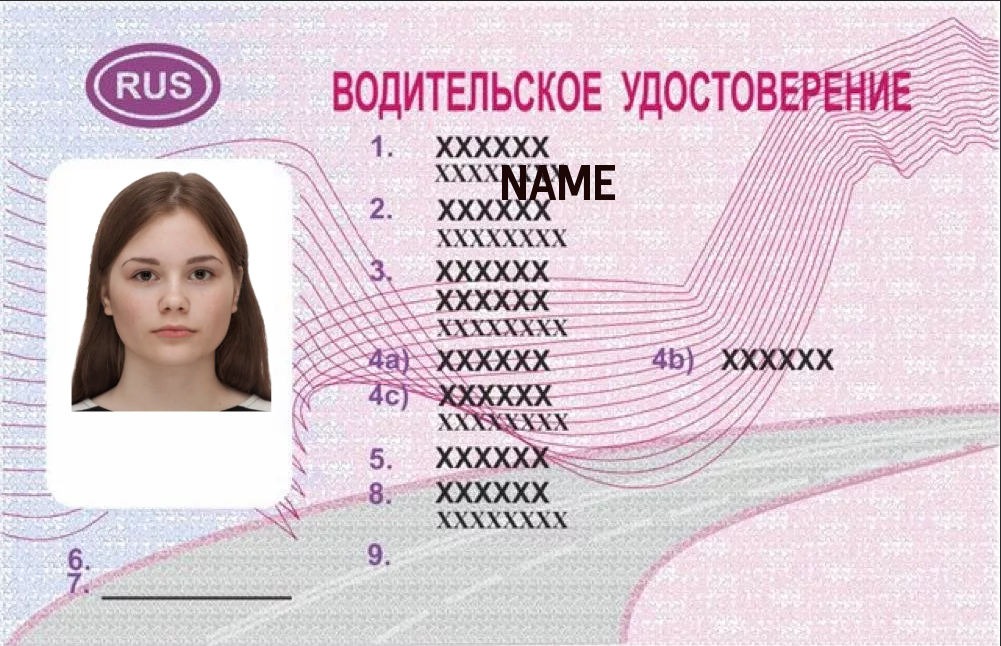
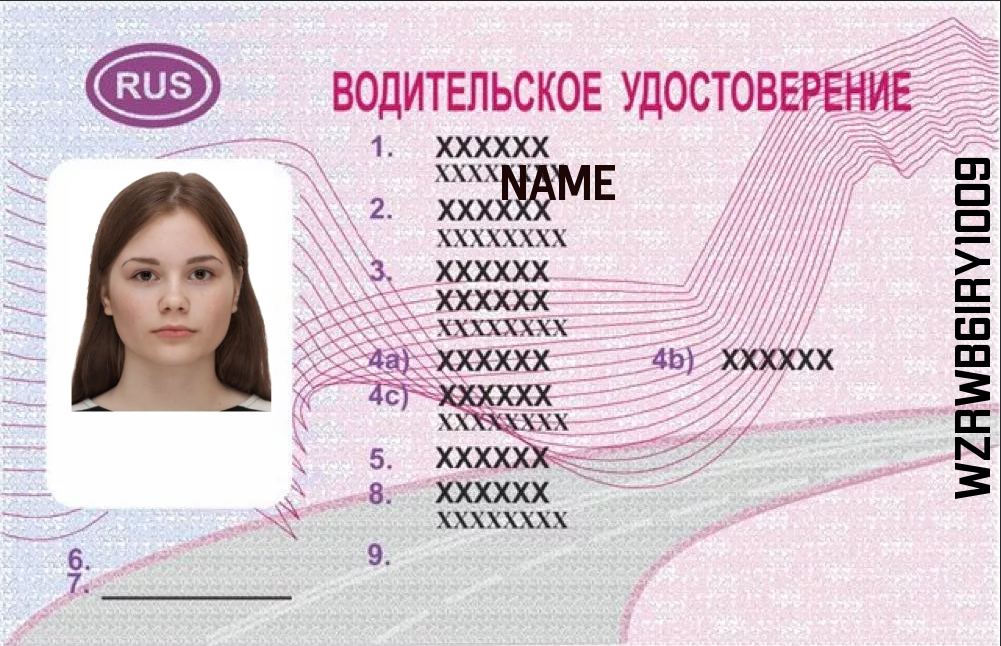
added text rotate

Changed region(s): [[0.9291, 0.2477, 0.991, 0.774]]

diff --git a/main.py b/main.py
@@ -1,5 +1,18 @@
-from PIL import Image, ImageFont, ImageDraw
+from PIL import Image, ImageFont, ImageDraw, ImageOps
+import random
+
 data = ["name", "surname", "burthDate", "Country", "Obl", "date1", "date2", "data3", "country2", "obl2", "categories"]
+
+symbolsMap = "ABCDEFGHIJKLMNOPQRSTUVWXYZ123456789"
+
+def generateToken():
+    global symbolsMap
+    str = ''
+    for i in range(0, 13):
+        r = random.randint(0, len(symbolsMap) - 1)
+        str = str + symbolsMap[r]
+
+    return str
 
 img1 = Image.open('sample.png')
 img2 = Image.open('photos/1.png')
@@ -19,5 +32,22 @@ finImg.text(
     font=font,
     fill='#1C0606'
 )
+
+tokenTxt = Image.new('L', (500,50))
+d = ImageDraw.Draw(tokenTxt)
+
+token = generateToken()
+d.text( (0, 0), token,  font=font, fill=255)
+
+w=tokenTxt.rotate(90,  expand=1)
+
+img1.paste( ImageOps.colorize(w, (0,0,0), (0,0,0)), (940,0),  w)
+
+# finImg.text(
+#     (200, 10),
+#     token,
+#     font=font,
+#     fill='#1C0606'
+# )
 
 img1.save('result.png')
